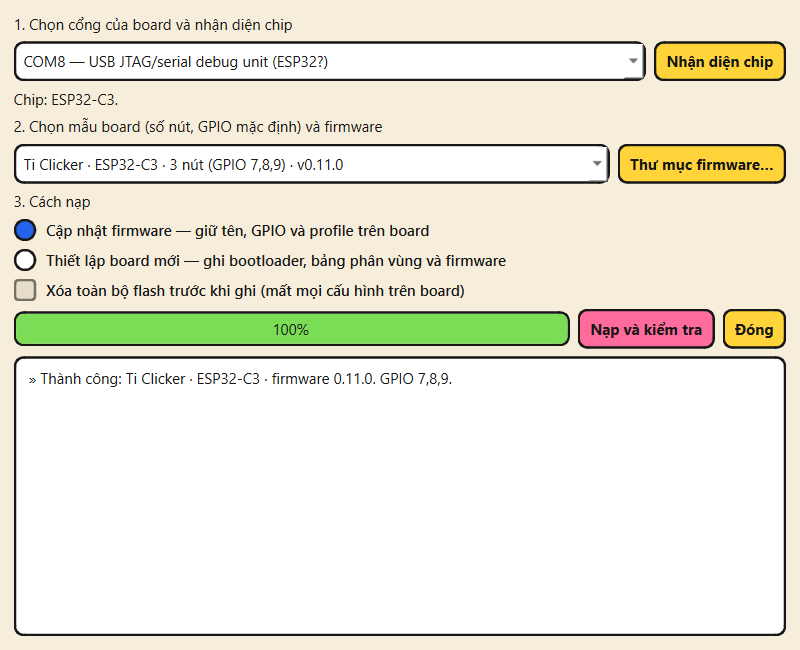
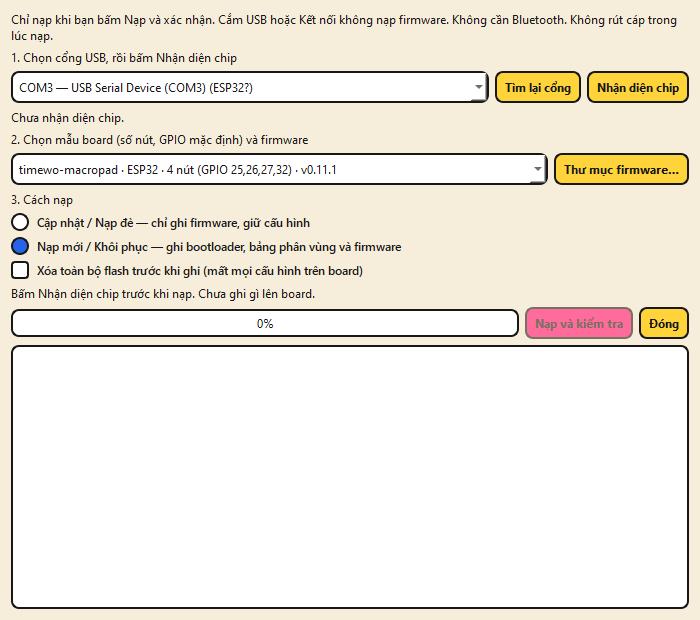
docs(readme): update screenshots and USB firmware workflow

Changed region(s): [[0.0, 0.0, 0.99, 0.9806]]

diff --git a/README.md b/README.md
@@ -12,13 +12,30 @@ Ti Clicker, sản phẩm hoàn thiện: ESP32-C3 Super Mini trong vỏ in 3D, 3 
 (PgUp, PgDn và một phím tùy chọn), dùng làm remote trình chiếu qua Bluetooth.
 
 **Tải về:** [bản mới nhất cho Windows](https://github.com/ti014/timewo-macropad/releases/latest).
-Tải file `.zip`, giải nén rồi chạy EXE, không cần cài Python.
+Tải file `.zip`, giải nén **cả EXE và thư mục `firmware/` cạnh EXE**, rồi chạy app;
+không cần cài Python. Link trên trỏ tới release đã công khai, không phải bản draft.
+Hướng dẫn và ảnh cửa sổ chính/hộp nạp bên dưới dùng giao diện **v0.11.1**;
+nếu bản tải về còn là v0.11.0, giao diện sẽ khác.
 
-![Cửa sổ chính: gán phím cho 3 nút của Ti Clicker](docs/images/main-window.png)
+![Giao diện v0.11.1: profile mặc định 4 nút, chưa kết nối, macro chưa bật](docs/images/main-window.png)
 
-| Đổi tên, GPIO, thời gian nút | Nạp firmware và kiểm tra |
-|---|---|
-| ![Hộp thoại Thiết bị](docs/images/device-dialog.png) | ![Hộp thoại nạp firmware](docs/images/flash-dialog.png) |
+## Bắt đầu nhanh
+
+- **Board đã có firmware:** không cần nạp lại. Cắm cáp USB có truyền dữ liệu,
+  bấm `Làm mới`, chọn COM của board rồi `Kết nối`.
+- **Board mới hoặc cần khôi phục:** bấm `Nạp firmware…` ngay cửa sổ chính,
+  làm theo phần [nạp firmware](#nạp-firmware-trong-app), rồi kết nối board.
+- **Dùng dây USB:** app phải chạy nền; không cần Bluetooth.
+- **Dùng độc lập, không mở app:** lưu profile vào board rồi ghép Bluetooth HID
+  với máy đích. USB lúc đó chỉ cần cấp nguồn.
+
+**Lưu ý:** mỗi lần kết nối lại, app chép profile đang chọn vào board. Chọn đúng
+profile trước khi kết nối; kết nối không có nghĩa là đọc profile từ board về app.
+Cắm USB hoặc bấm `Kết nối` không tự nạp firmware.
+
+Thanh dưới có `Chỉ kiểm tra nút`, `Nạp firmware…`, `Lưu cấu hình`, `Bật macro`.
+App khởi động ở chế độ kiểm tra; dòng trạng thái phía dưới cho biết vì sao macro
+chưa chạy. Sửa cấu hình sẽ tạm dừng macro, cần lưu và bật lại.
 
 ## Thành phần
 
@@ -73,6 +90,20 @@ uv run python main.py           # chạy từ source
 Mở `Nạp firmware…` trên cửa sổ chính (hoặc mục nạp firmware trong `Tùy chọn`).
 Cắm USB hay bấm kết nối **không tự nạp firmware**.
 
+![Hộp nạp v0.11.1: chọn Nạp mới / Khôi phục, chưa nhận diện chip, chưa ghi flash](docs/images/flash-dialog.png)
+
+Ảnh minh họa trạng thái trước nhận diện; mẫu board đang hiện chưa phải kết quả
+nhận diện phần cứng. Sau nhận diện, chọn đúng mẫu và GPIO, không chỉ đúng chip.
+
+| Tình trạng board | Cách nạp |
+|---|---|
+| Đang chạy firmware của dự án, chỉ nâng phiên bản | `Cập nhật / Nạp đè` |
+| Board trắng hoặc cần ghi lại bootloader/phân vùng | `Nạp mới / Khôi phục` |
+| Muốn xóa cả cấu hình và ghép đôi cũ | `Nạp mới / Khôi phục` và chọn `Xóa toàn bộ flash` |
+
+**Xóa toàn bộ flash làm mất tên, GPIO, profile và ghép đôi đã lưu. Mặc định không chọn.**
+Nạp mới không tự đổi cấu hình NVS còn tồn tại về mặc định của mẫu board.
+
 1. Chọn cổng, bấm `Nhận diện chip` (esptool đọc loại chip). Nếu vừa cắm board,
    bấm `Tìm lại cổng`; đổi cổng phải nhận diện lại trước khi nạp.
 2. Chọn mẫu board; danh sách chỉ hiện gói đúng chip. Nếu chạy từ source chưa có gói,
@@ -87,9 +118,16 @@ Cắm USB hay bấm kết nối **không tự nạp firmware**.
    đúng chip và phiên bản mới mới báo thành công. Các điều khiển bị khóa đến khi
    kiểm tra xong; không rút cáp trong lúc này.
 
+Sau khi log báo `Thành công`, đóng hộp nạp để app kết nối lại và đồng bộ profile
+đang chọn. Thanh tiến trình 100% chỉ có nghĩa ghi flash xong; vẫn cần chờ bước
+kiểm tra board trả lời. Nhận diện chip không ghi firmware, nhưng có thể reset board
+và ngắt kết nối USB của app.
+
 Nạp bằng PlatformIO vẫn dùng được: `pio run -e ti-clicker -t upload`.
 
 ## Đổi tên, GPIO, thời gian nút
+
+![Hộp thoại Thiết bị: tên, GPIO và thời gian nút; ảnh từ v0.11.0](docs/images/device-dialog.png)
 
 `Tùy chọn → Thiết bị (tên, GPIO, thời gian)…` (cần USB). Ví dụ: đổi `Ti Clicker`
 thành `Remote Phuong`, nút 3 từ GPIO9 sang GPIO10, bấm `Lưu vào thiết bị`.
@@ -118,27 +156,36 @@ USB của board là Serial để cấu hình, không phải bàn phím USB HID.
 
 ## Cách dùng USB và Bluetooth
 
-**Dùng dây, không cần Bluetooth:** kết nối cổng USB trong app, để chế độ board
-`Tự động`, lưu cấu hình, bỏ `Chỉ kiểm tra nút`, bật macro rồi chuyển sang ứng dụng
-đích hoặc ẩn app xuống khay. App nhận nút qua Serial và thực hiện macro trên Windows;
-phải giữ app chạy nền. ESP32-C3 không có bàn phím USB HID trực tiếp.
+### USB: app chạy macro, Bluetooth không bắt buộc
 
-**Dùng không cần app:** board tự gõ qua Bluetooth HID. Ghép board như bàn phím
-Bluetooth trong Windows; USB lúc này có thể chỉ cấp nguồn.
+1. Đóng app cũ hoặc Serial Monitor đang giữ cổng. Cắm board, bấm `Làm mới`,
+   chọn COM rồi `Kết nối`. Đợi app nhận diện và đồng bộ xong.
+2. Để `Tùy chọn → Chế độ board → Tự động`. Chọn profile, gán nút rồi bấm
+   `Lưu cấu hình`.
+3. Bỏ chọn `Chỉ kiểm tra nút`, bấm `Bật macro`.
+4. Chuyển sang cửa sổ đích hoặc chọn `Tùy chọn → Ẩn xuống khay`. Giữ app chạy nền;
+   đóng app sẽ ngừng xử lý macro USB. Macro không chạy khi cửa sổ app có focus.
 
-1. Đóng app cũ và Serial Monitor. Mở EXE mới, chọn cổng USB của board rồi bấm
-   `Kết nối`. App đọc địa chỉ Bluetooth từ chính board để tránh chọn nhầm thiết bị.
-2. Bấm `Bluetooth` để kết nối app với board. Nếu radio đang tắt và USB đã kết nối,
-   thao tác này bật radio. Chấp nhận yêu cầu ghép đôi của Windows nếu xuất hiện.
-3. Gán nút, bấm `Lưu cấu hình`, bỏ chọn `Chỉ kiểm tra nút`, rồi bấm `Bật macro`.
-   Chuyển sang ứng dụng đích hoặc ẩn app xuống khay; macro không chạy khi cửa sổ
-   cấu hình đang có focus.
-4. App nhận nút qua cả hai đường, dùng ID sự kiện để chỉ chạy một lần. Khi mất
-   kết nối, app nối lại và chỉ khôi phục macro nếu trước đó bạn đã bật. Tạm dừng
-   hoặc sửa cấu hình sẽ hủy ý định tự khôi phục.
+USB của firmware là Serial, **không phải USB keyboard HID**. Cắm board vào máy khác
+không tự biến nó thành bàn phím USB; máy đó cần app hoặc phải ghép Bluetooth HID.
+
+### Bluetooth: phân biệt kết nối app và bàn phím độc lập
+
+- **Nút `Bluetooth (tùy chọn)` trong app:** kết nối app với board qua BLE GATT để
+  nhận nút/gửi cấu hình. Thiết lập lần đầu qua USB để app đọc đúng địa chỉ board;
+  nếu radio đang tắt, app có thể bật qua USB. Chấp nhận yêu cầu ghép đôi Windows
+  nếu xuất hiện. Khi app xử lý macro, vẫn cần lưu, bỏ chế độ kiểm tra và bật macro.
+- **Bàn phím Bluetooth HID không cần app:** lưu các hành động hỗ trợ trên board,
+  giữ nút cuối để bật radio nếu đang tắt, ghép board trong Bluetooth Settings của
+  máy đích rồi ngắt kết nối/thoát app. Board dùng cùng firmware và profile đã lưu,
+  không cần nạp một firmware Bluetooth riêng. Xem phần dùng độc lập bên dưới.
+
+App nhận nút qua USB và BLE thì dùng ID sự kiện để chỉ chạy một lần. Khi mất
+kết nối, app nối lại và chỉ khôi phục macro nếu trước đó đã bật; tạm dừng hoặc
+sửa cấu hình sẽ hủy ý định tự khôi phục.
 
 Giữ **nút cuối** (nút 4 trên macropad, nút 3 trên Ti Clicker) để bật/tắt radio Bluetooth, không reboot.
-Nhấn ngắn nút cuối chạy macro khi thả nút. Bỏ chọn nút `Bluetooth` trên app chỉ ngắt
+Nhấn ngắn nút cuối chạy macro khi thả nút. Bỏ chọn nút `Bluetooth (tùy chọn)` chỉ ngắt
 kết nối của app, không tắt radio hay bàn phím HID của hệ điều hành.
 
 Ví dụ: gán `Mở ứng dụng` với `C:\Program Files\Cockpit Tools\cockpit-tools.exe`.
@@ -205,7 +252,19 @@ Kết nối BLE sử dụng pairing/encryption; việc ghi lệnh thành công k
 
 ## Xử lý lỗi
 
-- `Bluetooth trên board đang tắt`: giữ nút cuối hoặc kết nối USB rồi bật nút Bluetooth.
+| Triệu chứng | Kiểm tra / cách xử lý |
+|---|---|
+| Không thấy COM | Dùng cáp có truyền dữ liệu, đổi cổng USB; bấm `Làm mới` ở cửa sổ chính hoặc `Tìm lại cổng` trong hộp nạp. Với board dùng CP2102/CH340, kiểm tra driver tương ứng. |
+| Có COM nhưng không kết nối được app | COM chỉ cho biết có cổng Serial, không chứng minh đã có firmware tương thích. Đóng app/Serial Monitor đang giữ cổng; nếu board trắng, dùng `Nạp mới / Khôi phục`. |
+| `Nạp và kiểm tra` bị khóa | Phải `Nhận diện chip` thành công trên cổng đang chọn và có gói đúng chip. Đổi hoặc tìm lại cổng phải nhận diện lại. |
+| Không có gói firmware | Giữ thư mục `firmware/` cạnh EXE. Nếu chạy source, build từ gốc repo rồi chọn `dist/firmware` bằng `Thư mục firmware…`. |
+| Không nhận diện được chip | Kiểm tra cáp và cổng đang bị chiếm; thử giữ BOOT khi cắm board theo hướng dẫn phần cứng, rồi nhận diện lại. |
+| Ghi đạt 100% nhưng board chưa trả lời | Chưa được xác nhận nạp thành công. Đợi kiểm tra kết thúc; nếu báo lỗi, rút/cắm lại, tìm COM mới và `Kết nối`. Không xóa flash ngay chỉ vì timeout. |
+| Bấm nút nhưng macro không chạy | Đợi đồng bộ xong, chọn `Tự động`, lưu cấu hình, bỏ `Chỉ kiểm tra nút`, bật macro rồi chuyển focus sang cửa sổ đích. Xem dòng trạng thái phía dưới. |
+| Tắt app thì USB không chạy | Đúng thiết kế: USB cần app. Muốn dùng độc lập phải ghép Bluetooth HID và dùng hành động hỗ trợ trên board. |
+| Nạp mẫu 4 nút nhưng vẫn thấy cấu hình cũ | NVS được giữ nếu không xóa flash. Chỉnh GPIO/số nút trong hộp `Thiết bị`; chỉ xóa flash khi chấp nhận mất toàn bộ cấu hình. |
+
+- `Bluetooth trên board đang tắt`: giữ nút cuối hoặc kết nối USB rồi bật `Bluetooth (tùy chọn)`.
 - Không thấy board khi tìm qua BLE: thiết lập lần đầu qua USB, bật Bluetooth trên
   Windows, kiểm tra board không đang bị máy khác giữ kết nối.
 - Firmware mới có thêm GATT service. Nếu Windows vẫn dùng cache cũ và báo thiếu
@@ -222,13 +281,18 @@ Kết nối BLE sử dụng pairing/encryption; việc ghi lệnh thành công k
 
 ## Kiểm thử
 
-Bản 0.11.0 là bản kiểm thử tích hợp. Tests tự động gồm chống thực thi trùng,
-pause/reconnect, đổi mode, clipboard, giao thức INFO/CFG/DUMP, kiểm tra gói firmware
-và tham số esptool. Firmware build được cho cả 4 env. Đã thử trên ESP32-C3 Super Mini
-(Ti Clicker): nạp đủ bootloader/phân vùng/firmware bằng code của app, INFO, lưu
-profile có `wait:` và đọc lại bằng DUMP, CFG đổi tên/GPIO rồi tự kết nối lại sau
-khoảng 1,2 giây, từ chối GPIO sai/trùng, BLE quảng bá đúng tên. Chưa thử trên board
-ESP32 thường và ESP32-S3.
+Khi chuẩn bị v0.11.1: **192 tests đạt**, Ruff sạch, firmware build và kiểm tra
+SHA-256 cho cả 4 env; EXE đóng gói vượt smoke-test. Tests gồm chống thực thi trùng,
+pause/reconnect, đổi mode, clipboard, INFO/CFG/DUMP, gói firmware và esptool 5,
+bắt buộc nhận diện trước nạp, hủy xác nhận không ghi, nạp đè/nạp mới và timeout
+kiểm tra sau nạp. Đây là kết quả kiểm tra phần mềm, không thay thế thử phần cứng.
+
+Kiểm thử tích hợp phần cứng v0.11.0 trên ESP32-C3 Super Mini (Ti Clicker) đã gồm:
+nạp đủ bootloader/phân vùng/firmware bằng code của app, INFO, lưu profile có `wait:`
+và đọc lại bằng DUMP, CFG đổi tên/GPIO rồi tự kết nối lại, từ chối GPIO sai/trùng,
+BLE quảng bá đúng tên. Trong lượt chuẩn bị release v0.11.1 đã nhận diện ESP32-C3
+qua esptool mới, chưa thực hiện lượt nạp thử phần cứng mới. Chưa thử ESP32 thường
+và ESP32-S3; không coi build thành công là đã kiểm thử các board đó.
 
 Chưa triển khai cửa sổ ghép đôi có thời hạn/allowlist và chưa có ACK xác nhận
 lưu profile vào NVS qua BLE. Không suy ra tốc độ reconnect cố định từ vài lượt đo.
